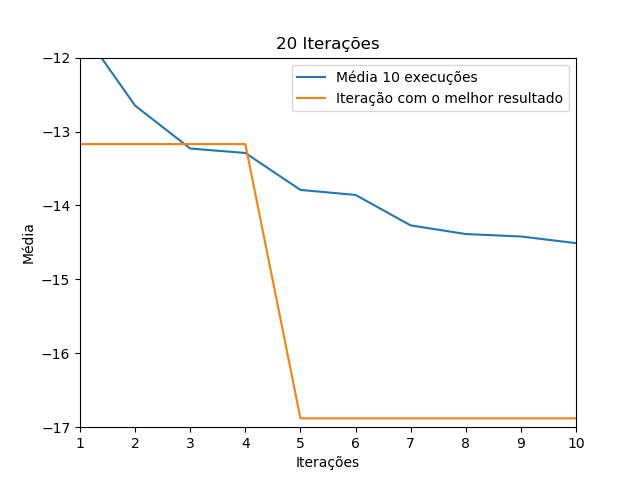
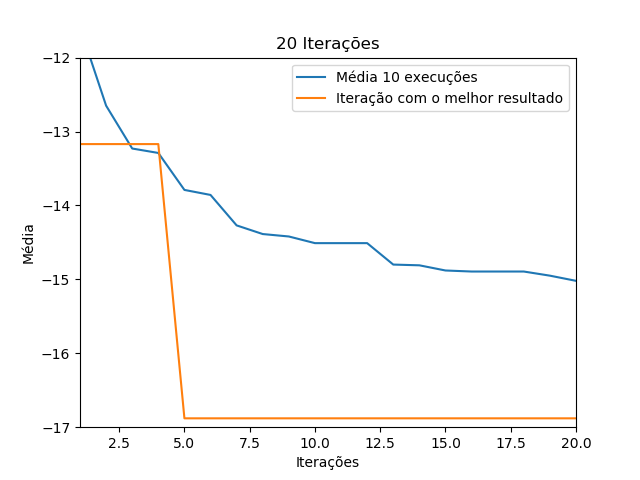
Grafico_Correção

diff --git a/grafico.py b/grafico.py
@@ -30,6 +30,6 @@ else:
 	matplotlib.pyplot.xlabel("Iterações")
 	matplotlib.pyplot.ylabel("Média")
 	matplotlib.pyplot.legend()
-	matplotlib.pyplot.xlim(1, 10)
-	matplotlib.pyplot.ylim(-17.00,-12.00)
+	matplotlib.pyplot.xlim(1,20)
+	matplotlib.pyplot.ylim(-17,-12)
 	matplotlib.pyplot.show()
